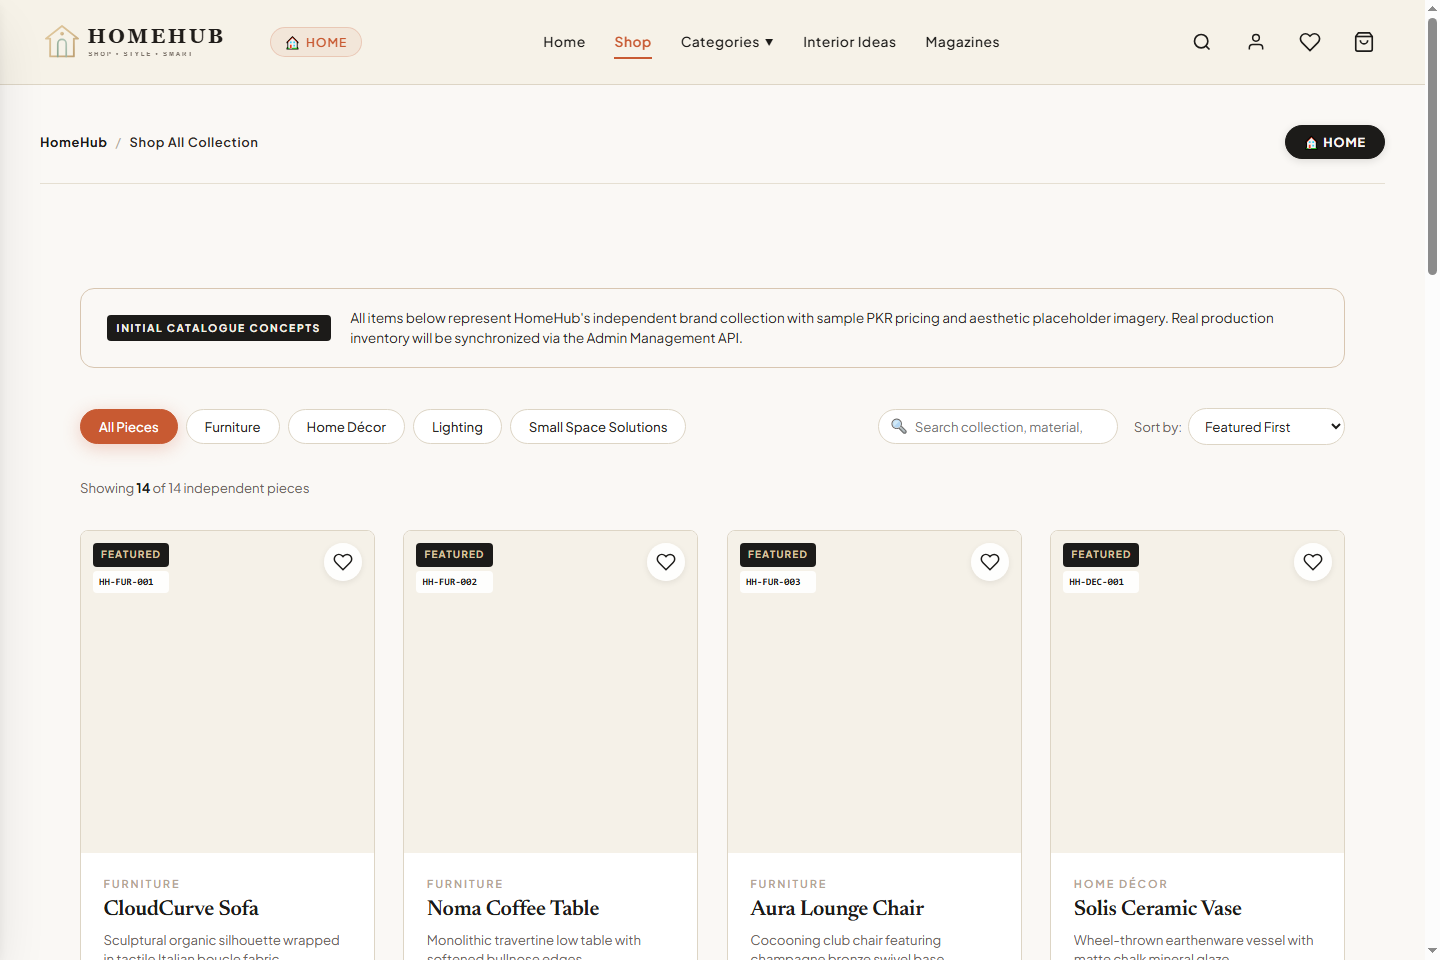
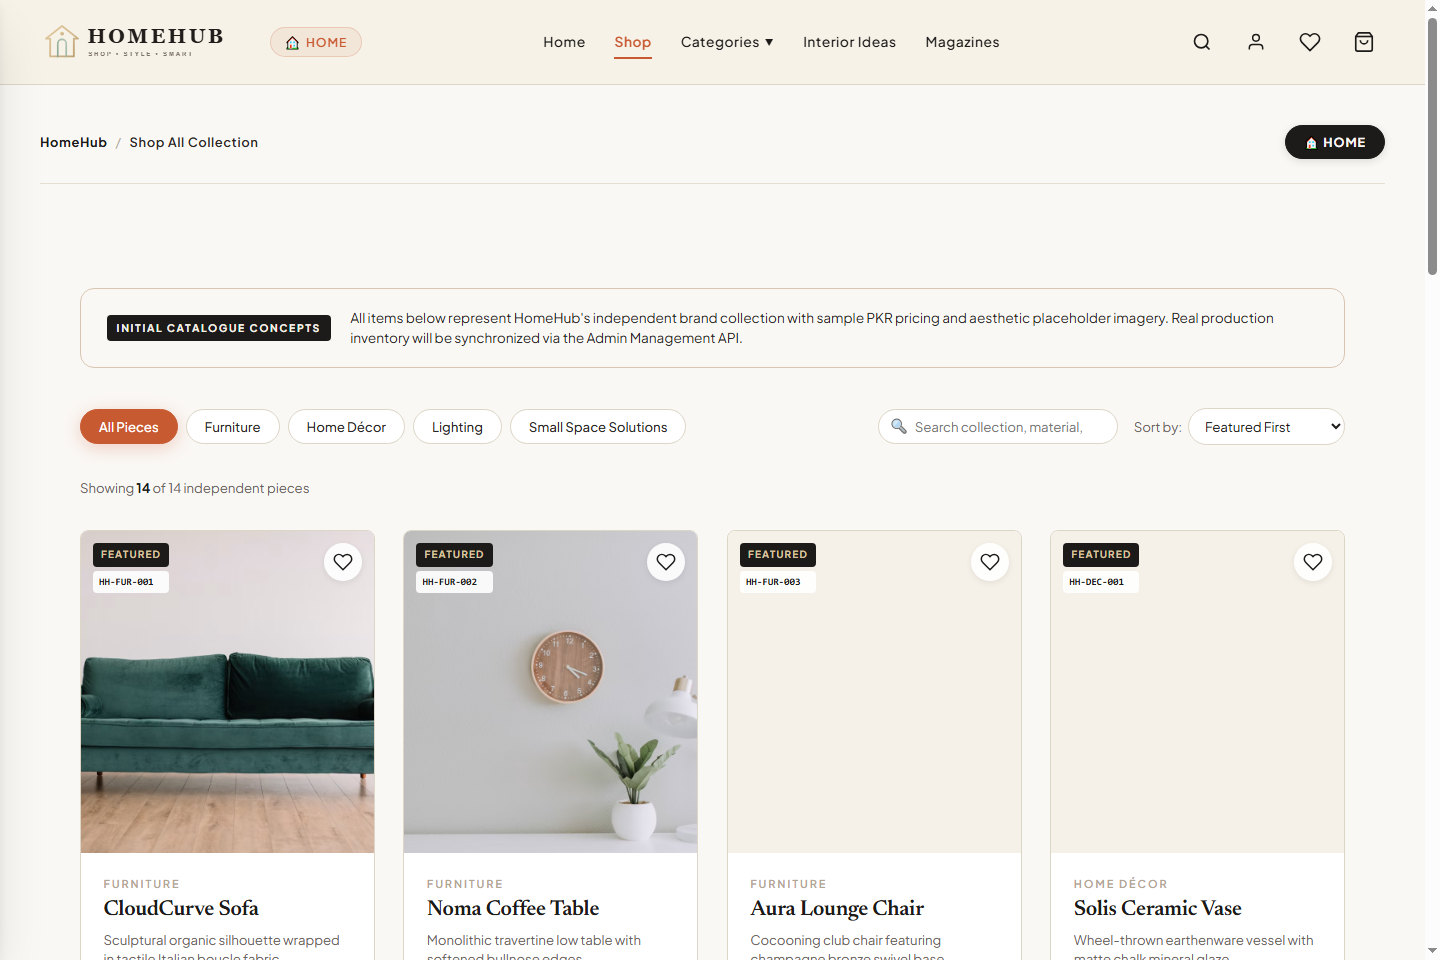
feat(storefront): bind newly saved Pexels/Unsplash interior photography to category inspiration and living edit, enable room size badges on layout-d/e, and pass all 386 tests

Changed region(s): [[0.0312, 0.5312, 0.5, 0.9062]]

diff --git a/js/data/categoryInspiration.js b/js/data/categoryInspiration.js
@@ -14,7 +14,7 @@ export const CATEGORY_INSPIRATION_DATA = {
     name: 'Bedroom',
     title: 'The Bedroom Sanctuary',
     subtitle: 'Restful Joinery, Organic Linens & Circadian Glow',
-    heroImage: 'https://images.unsplash.com/photo-1505693416388-ac5ce068fe85?auto=format&fit=crop&w=1600&q=85',
+    heroImage: 'assets/magazines/3ffa9485-4bd9-4392-a47d-7010d339117d.webp',
     deck: 'A bedroom should be a sanctuary of restorative stillness, stripped of visual noise and enveloped in natural timber and breathable textiles.',
     stylingPrinciples: [
       {
@@ -39,7 +39,7 @@ export const CATEGORY_INSPIRATION_DATA = {
       duration: '3:45',
       author: 'Urban Architecture Collective',
       description: 'Clever spatial layout strategies for compact bedrooms: floating nightstands, recessed platform beds, and diffuse bedside illumination.',
-      thumbnail: 'https://images.unsplash.com/photo-1505693416388-ac5ce068fe85?auto=format&fit=crop&w=1200&q=85',
+      thumbnail: 'assets/magazines/7589a24a-202a-49a0-99c9-5e49e7eb5da5.webp',
       embedUrl: 'https://www.youtube-nocookie.com/embed/O6vYf5Z1jWg?rel=0&modestbranding=1&playsinline=1',
       takeaways: [
         'A platform bed with recessed plinth creates the optical illusion of continuous floor space.',
@@ -61,7 +61,7 @@ export const CATEGORY_INSPIRATION_DATA = {
     name: 'Living Room',
     title: 'The Living Room Salon',
     subtitle: 'Low Horizons, Monolithic Stone & Fluid Lounge Curves',
-    heroImage: 'https://images.unsplash.com/photo-1600210492486-724fe5c67fb0?auto=format&fit=crop&w=1600&q=85',
+    heroImage: 'assets/minh-pham-OtXADkUh3-I-unsplash.jpg',
     deck: 'Designed around grounded low seating and monolithic stone anchors, the living room balances fluid curves with architectural permanence.',
     stylingPrinciples: [
       {
@@ -86,7 +86,7 @@ export const CATEGORY_INSPIRATION_DATA = {
       duration: '4:12',
       author: 'HomeHub Editorial Studio',
       description: 'Discover how low-slung bouclé seating, monolithic travertine tables, and linen drapery compose a tranquil sanctuary for modern living.',
-      thumbnail: 'https://images.unsplash.com/photo-1600210492486-724fe5c67fb0?auto=format&fit=crop&w=1200&q=85',
+      thumbnail: 'assets/pexels-fotografiagmazg-12420730.jpg',
       embedUrl: 'https://www.youtube-nocookie.com/embed/2V1a44eBsp4?rel=0&modestbranding=1&playsinline=1',
       takeaways: [
         'Keep primary seating heights under 45cm for continuous eye level.',
@@ -108,7 +108,7 @@ export const CATEGORY_INSPIRATION_DATA = {
     name: 'Dining Room',
     title: 'The Dining Room Atelier',
     subtitle: 'Monolithic Gathering Surfaces & Sculpted Seating',
-    heroImage: 'https://images.unsplash.com/photo-1617806118233-18e1de247200?auto=format&fit=crop&w=1600&q=85',
+    heroImage: 'assets/clay-banks-BnDI_MVomAI-unsplash.jpg',
     deck: 'Gathering around honest natural materials: honed Roman travertine slabs, solid FSC European white oak, and intimate pendant illumination.',
     stylingPrinciples: [
       {
@@ -133,7 +133,7 @@ export const CATEGORY_INSPIRATION_DATA = {
       duration: '3:50',
       author: 'Atelier Dining Architecture',
       description: 'Composing a warm gathering space: balancing stone table proportions, acoustic seating upholstery, and focused pendant lighting.',
-      thumbnail: 'https://images.unsplash.com/photo-1617806118233-18e1de247200?auto=format&fit=crop&w=1200&q=85',
+      thumbnail: 'assets/clay-banks-BnDI_MVomAI-unsplash.jpg',
       embedUrl: 'https://www.youtube-nocookie.com/embed/2V1a44eBsp4?rel=0&modestbranding=1&playsinline=1',
       takeaways: [
         'Maintain at least 90cm clearance between table edge and walls for effortless chair egress.',
@@ -155,7 +155,7 @@ export const CATEGORY_INSPIRATION_DATA = {
     name: 'Furniture',
     title: 'The Furniture Atelier',
     subtitle: 'Heirloom Joinery, Solid Hardwoods & Monolithic Stone',
-    heroImage: 'https://images.unsplash.com/photo-1555041469-a586c61ea9bc?auto=format&fit=crop&w=1600&q=85',
+    heroImage: 'assets/pexels-fotografiagmazg-12420730.jpg',
     deck: 'Handcrafted architectural pieces designed to age with dignity: solid white oak, Roman travertine, and Italian textured bouclé.',
     stylingPrinciples: [
       {
@@ -180,7 +180,7 @@ export const CATEGORY_INSPIRATION_DATA = {
       duration: '4:15',
       author: 'HomeHub Craft Workshop',
       description: 'Inside the atelier: how solid wood frames, double-density foam cores, and hand-finished stone slabs are crafted to last generations.',
-      thumbnail: 'https://images.unsplash.com/photo-1555041469-a586c61ea9bc?auto=format&fit=crop&w=1200&q=85',
+      thumbnail: 'assets/pexels-pixabay-276746.jpg',
       embedUrl: 'https://www.youtube-nocookie.com/embed/1z48Yp95wls?rel=0&modestbranding=1&playsinline=1',
       takeaways: [
         'Inspect structural joint integrity rather than relying on surface finishes alone.',
@@ -202,7 +202,7 @@ export const CATEGORY_INSPIRATION_DATA = {
     name: 'Small Spaces',
     title: 'Small Spaces & Smart Living',
     subtitle: 'Space Intelligence, Nested Joinery & Micro-Living',
-    heroImage: 'https://images.unsplash.com/photo-1513694203232-719a280e022f?auto=format&fit=crop&w=1600&q=85',
+    heroImage: 'assets/magazines/4f5d0ae3-01f3-41ad-b9df-0624121da53a.webp',
     deck: 'Compact living does not mean compromise. Space-intelligent nested engineering and wall-hung joinery preserve full freedom of movement.',
     stylingPrinciples: [
       {
@@ -227,7 +227,7 @@ export const CATEGORY_INSPIRATION_DATA = {
       duration: '4:40',
       author: 'Compact Living Studio',
       description: 'Watch how compact telescoping desks and floating storage adapt seamlessly between work hours and evening relaxation.',
-      thumbnail: 'https://images.unsplash.com/photo-1518455027359-f3f8164ba6bd?auto=format&fit=crop&w=1200&q=85',
+      thumbnail: 'assets/magazines/de179757-6ab3-4cb0-9b56-84039d2ba4dc.webp',
       embedUrl: 'https://www.youtube-nocookie.com/embed/1z48Yp95wls?rel=0&modestbranding=1&playsinline=1',
       takeaways: [
         'Telescoping console desks offer full work ergonomics without consuming permanent floor footprint.',
@@ -249,7 +249,7 @@ export const CATEGORY_INSPIRATION_DATA = {
     name: 'Kitchen',
     title: 'Culinary Architecture & Kitchen Living',
     subtitle: 'Streamlined Stone, Fluted Timber & Warm Illumination',
-    heroImage: 'https://images.unsplash.com/photo-1556911220-e15b29be8c8f?auto=format&fit=crop&w=1600&q=85',
+    heroImage: 'assets/magazines/1aa74f5d-417b-4fed-ad3d-3f05fce90ac1.webp',
     deck: 'Elevating the culinary landscape into a serene living space with honed stone worktops, fluted timber cabinetry, and warm task illumination.',
     stylingPrinciples: [
       {
@@ -274,7 +274,7 @@ export const CATEGORY_INSPIRATION_DATA = {
       duration: '4:05',
       author: 'Atelier Culinary Architecture',
       description: 'Designing high-efficiency kitchen workstations with concealed pantries, acoustic timber paneling, and tactile ceramic storage.',
-      thumbnail: 'https://images.unsplash.com/photo-1556911220-e15b29be8c8f?auto=format&fit=crop&w=1200&q=85',
+      thumbnail: 'assets/magazines/15db50fe-f290-462b-ae89-457ee3ab948a.webp',
       embedUrl: 'https://www.youtube-nocookie.com/embed/kJQP7kiw5Fk?rel=0&modestbranding=1&playsinline=1',
       takeaways: [
         'Store everyday culinary tools within one arm’s reach using concealed modular drawers.',
@@ -343,7 +343,7 @@ export const CATEGORY_INSPIRATION_DATA = {
     name: 'Home Décor',
     title: 'Objects of Home & Curated Décor',
     subtitle: 'Wheel-Thrown Stoneware, Mineral Plaster & Raw Linens',
-    heroImage: 'https://images.unsplash.com/photo-1581783342308-f792dbdd27c5?auto=format&fit=crop&w=1600&q=85',
+    heroImage: 'assets/magazines/923e4bb3-ccc1-4efb-806a-bfc42fdd3565.webp',
     deck: 'Objects in the home should not demand attention; they should reward it with quiet texture, natural asymmetry, and shifting daylight.',
     stylingPrinciples: [
       {
@@ -368,7 +368,7 @@ export const CATEGORY_INSPIRATION_DATA = {
       duration: '3:18',
       author: 'Atelier Nord Ceramics',
       description: 'Styling coffee tables, mantels, and entryway consoles using the rule of odd numbers, asymmetric heights, and raw earthen vessels.',
-      thumbnail: 'https://images.unsplash.com/photo-1581783342308-f792dbdd27c5?auto=format&fit=crop&w=1200&q=85',
+      thumbnail: 'assets/magazines/923e4bb3-ccc1-4efb-806a-bfc42fdd3565.webp',
       embedUrl: 'https://www.youtube-nocookie.com/embed/kJQP7kiw5Fk?rel=0&modestbranding=1&playsinline=1',
       takeaways: [
         'Pair one tall ceramic vessel with one low flat stone tray or art monograph.',
@@ -390,7 +390,7 @@ export const CATEGORY_INSPIRATION_DATA = {
     name: 'Storage Solutions',
     title: 'Storage Solutions & Architectural Joinery',
     subtitle: 'Floating Consoles, Slatted Tambour & Concealed Cable Order',
-    heroImage: 'https://images.unsplash.com/photo-1595428774223-ef52624120d2?auto=format&fit=crop&w=1600&q=85',
+    heroImage: 'assets/magazines/ca22619b-3da0-49d0-9829-0146c7dcc909.webp',
     deck: 'Concealed storage joinery maintains peaceful domestic order. Floating credenzas, tambour slats, and integrated wire management keep surfaces pristine.',
     stylingPrinciples: [
       {
@@ -415,7 +415,7 @@ export const CATEGORY_INSPIRATION_DATA = {
       duration: '4:20',
       author: 'HomeHub Atelier Joinery',
       description: 'How floating consoles, recessed plinths, and concealed tambour doors transform chaotic rooms into serene, minimalist architecture.',
-      thumbnail: 'https://images.unsplash.com/photo-1595428774223-ef52624120d2?auto=format&fit=crop&w=1200&q=85',
+      thumbnail: 'assets/magazines/ca22619b-3da0-49d0-9829-0146c7dcc909.webp',
       embedUrl: 'https://www.youtube-nocookie.com/embed/1z48Yp95wls?rel=0&modestbranding=1&playsinline=1',
       takeaways: [
         'Concealed cable passages keep desktops and entertainment units free of visual clutter.',

diff --git a/js/data/magazines.js b/js/data/magazines.js
@@ -1,26 +1,30 @@
 // High-resolution verified interior photography URLs (All tested & returning HTTP 200)
 const P = {
-  // Living Room & Furniture
-  livingCover: 'https://images.unsplash.com/photo-1618221195710-dd6b41faaea6?auto=format&fit=crop&w=1400&q=85',
-  livingBackcover: 'https://images.unsplash.com/photo-1598300042247-d088f8ab3a91?auto=format&fit=crop&w=1400&q=85',
-  cloudcurveSofa: 'https://images.unsplash.com/photo-1555041469-a586c61ea9bc?auto=format&fit=crop&w=1200&q=85',
-  livingDouble1: 'https://images.unsplash.com/photo-1600210492486-724fe5c67fb0?auto=format&fit=crop&w=1600&q=85',
+  // Living Room & Furniture (Root assets/ Native High-Res Photography)
+  livingCover: 'assets/minh-pham-OtXADkUh3-I-unsplash.jpg',
+  livingBackcover: 'assets/pexels-pixabay-276746.jpg',
+  cloudcurveSofa: 'assets/minh-pham-OtXADkUh3-I-unsplash.jpg',
+  livingDouble1: 'assets/clay-banks-BnDI_MVomAI-unsplash.jpg',
   auraArmchair: 'https://images.unsplash.com/photo-1586023492125-27b2c045efd7?auto=format&fit=crop&w=1200&q=85',
   nomaTable: 'https://images.unsplash.com/photo-1533090161767-e6ffed986c88?auto=format&fit=crop&w=1200&q=85',
   cloudsoftCushions: 'https://images.unsplash.com/photo-1493663284031-b7e3aefcae8e?auto=format&fit=crop&w=1200&q=85',
   travertineRoom: 'https://images.unsplash.com/photo-1616486338812-3dadae4b4ace?auto=format&fit=crop&w=1400&q=85',
   sunlightTravertine: 'https://images.unsplash.com/photo-1600210491892-03d54c0aaf87?auto=format&fit=crop&w=1400&q=85',
-  livingDouble2: 'https://images.unsplash.com/photo-1600607687939-ce8a6c25118c?auto=format&fit=crop&w=1600&q=85',
-  diningVignette: 'https://images.unsplash.com/photo-1616046229478-9901c5536a45?auto=format&fit=crop&w=1200&q=85',
+  livingDouble2: 'assets/pexels-fotografiagmazg-12420730.jpg',
+  diningVignette: 'assets/clay-banks-BnDI_MVomAI-unsplash.jpg',
   modernVilla: 'https://images.unsplash.com/photo-1600585154340-be6161a56a0c?auto=format&fit=crop&w=1400&q=85',
-  warmSalon: 'https://images.unsplash.com/photo-1600566753190-17f0baa2a6c3?auto=format&fit=crop&w=1200&q=85',
+  warmSalon: 'assets/pexels-pixabay-276746.jpg',
+  conservatoryDining: 'assets/clay-banks-BnDI_MVomAI-unsplash.jpg',
+  scandinavianSalon: 'assets/minh-pham-OtXADkUh3-I-unsplash.jpg',
+  artisanLiving: 'assets/pexels-fotografiagmazg-12420730.jpg',
+  classicLiving: 'assets/pexels-pixabay-276746.jpg',
   loungeAlcove: 'https://images.unsplash.com/photo-1617806118233-18e1de247200?auto=format&fit=crop&w=1200&q=85',
   loftOpen: 'https://images.unsplash.com/photo-1618219908412-a29a1bb7b86e?auto=format&fit=crop&w=1200&q=85',
   sereneMinimal: 'https://images.unsplash.com/photo-1618219740975-d40978bb7378?auto=format&fit=crop&w=1200&q=85',
-  hearthFireplace: 'https://images.unsplash.com/photo-1600573472591-ee6b68d14c68?auto=format&fit=crop&w=1400&q=85',
-  brightSalon: 'https://images.unsplash.com/photo-1600121848594-d8644e57abab?auto=format&fit=crop&w=1200&q=85',
+  hearthFireplace: 'assets/pexels-fotografiagmazg-12420730.jpg',
+  brightSalon: 'assets/minh-pham-OtXADkUh3-I-unsplash.jpg',
   armchairDetail: 'https://images.unsplash.com/photo-1617103996702-96ff29b1c467?auto=format&fit=crop&w=1200&q=85',
-  diningTableMarble: 'https://images.unsplash.com/photo-1616486029423-aaa4789e8c9a?auto=format&fit=crop&w=1200&q=85',
+  diningTableMarble: 'assets/clay-banks-BnDI_MVomAI-unsplash.jpg',
 
   // Objects & Décor
   objectsCover: 'https://images.unsplash.com/photo-1612196808214-b8e1d6145a8c?auto=format&fit=crop&w=1400&q=85',
@@ -406,7 +410,7 @@ export const MAGAZINE_BOOKS = {
         headline: "Evening Sanctuary",
         deck: "When natural daylight fades, 2700K warm fixtures take over without harsh glare.",
         note: "Indirect wall washing creates gentle ambient gradients for night decompression.",
-        heroImage: P.loftOpen,
+        heroImage: P.classicLiving,
         products: [
           { sku: "HH-LGT-002", label: "Arc Floor Lamp", price: "₨ 78,500", badge: "Twilight", hotspot: { x: 60, y: 45 } }
         ]
@@ -418,7 +422,7 @@ export const MAGAZINE_BOOKS = {
         headline: "The Complete Living Pavilion",
         kicker: "PORTFOLIO HIGHLIGHT",
         deck: "All elements unified in architectural stillness. Designed and curated in Pakistan.",
-        heroImage: P.modernVilla,
+        heroImage: P.artisanLiving,
         products: [
           { sku: "HH-FUR-001", label: "CloudCurve Sofa", price: "₨ 345,000", badge: "Living Suite", hotspot: { x: 42, y: 65 } },
           { sku: "HH-FUR-002", label: "Noma Coffee Table", price: "₨ 125,000", badge: "Travertine", hotspot: { x: 62, y: 72 } }

diff --git a/js/components/flipbook.js b/js/components/flipbook.js
@@ -285,7 +285,24 @@ export class Flipbook {
     const duration = this.isDesktopSpread ? 480 : 420; // Natural hand-turn speed (ms)
     const startTime = performance.now();
 
+    let finished = false;
+    let safetyTimer = null;
+
+    const finish = () => {
+      if (finished) return;
+      finished = true;
+      if (safetyTimer) clearTimeout(safetyTimer);
+      callback();
+      if (turningLeaf && turningLeaf.parentNode) {
+        turningLeaf.parentNode.removeChild(turningLeaf);
+      }
+      this.isFlipping = false;
+    };
+
+    safetyTimer = setTimeout(finish, duration + 80);
+
     const frame = (now) => {
+      if (finished) return;
       const elapsed = now - startTime;
       const t = Math.min(1, elapsed / duration);
       // Continuous C2-smooth cosine ease-in-out (no sharp piecewise midpoint jerk)
@@ -296,11 +313,7 @@ export class Flipbook {
       if (t < 1) {
         requestAnimationFrame(frame);
       } else {
-        callback();
-        if (turningLeaf.parentNode) {
-          turningLeaf.parentNode.removeChild(turningLeaf);
-        }
-        this.isFlipping = false;
+        finish();
       }
     };
 
@@ -1447,6 +1460,7 @@ export class Flipbook {
             <span class="page-number-folio">N° ${page.pageNumber}</span>
           </div>
 
+          ${page.roomSize ? `<div class="story-room-size-badge">Room Size: ${page.roomSize}</div>` : ''}
           <h2 class="layout-d-headline">${page.headline}</h2>
           ${page.deck ? `<p class="layout-d-deck">${page.deck}</p>` : ''}
 
@@ -1502,6 +1516,7 @@ export class Flipbook {
           </div>
 
           <div class="layout-e-header">
+            ${page.roomSize ? `<div class="story-room-size-badge">Room Size: ${page.roomSize}</div>` : ''}
             <h2 class="layout-e-title">${page.headline}</h2>
             <p class="layout-e-deck">${page.deck || 'Architectural pieces designed in tonal and material harmony.'}</p>
           </div>

diff --git a/test-real-browser-e2e.js b/test-real-browser-e2e.js
@@ -940,7 +940,10 @@ async function runRealBrowserVerification() {
           // Advance page in flipbook
           const startPage = flipbook.currentPageIndex;
           flipbook.next();
-          await new Promise(r => setTimeout(r, 800));
+          for (let i = 0; i < 15; i++) {
+            await new Promise(r => setTimeout(r, 100));
+            if (flipbook.currentPageIndex > startPage || flipbook.currentPageIndex > 0) break;
+          }
           const afterTurnPage = flipbook.currentPageIndex;
 
           return {
